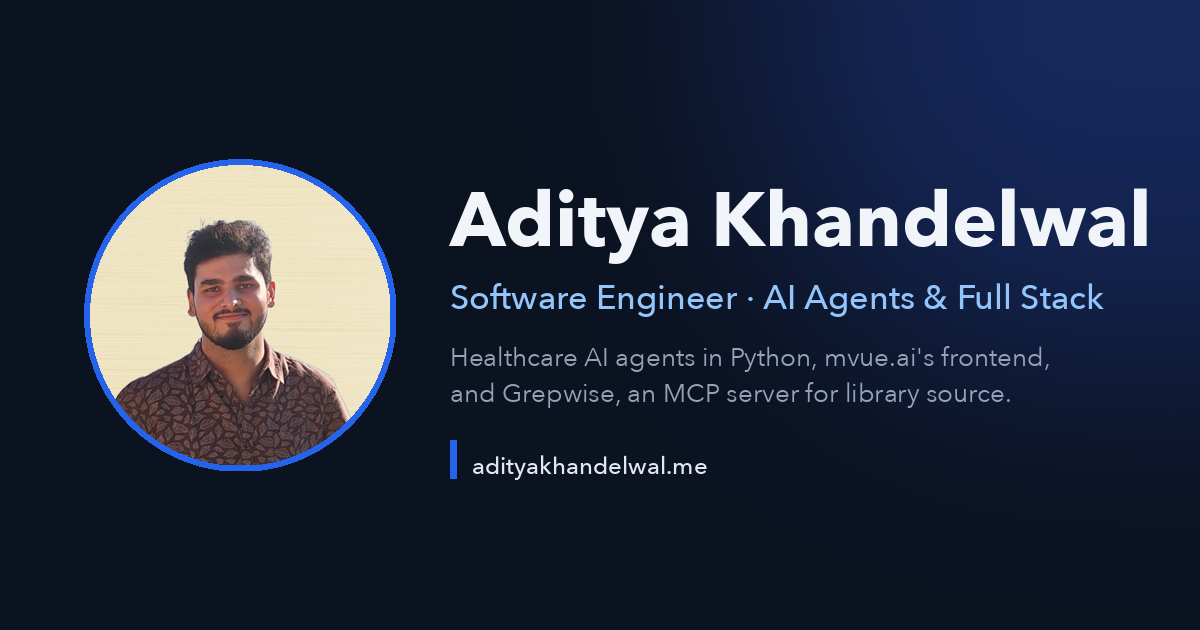
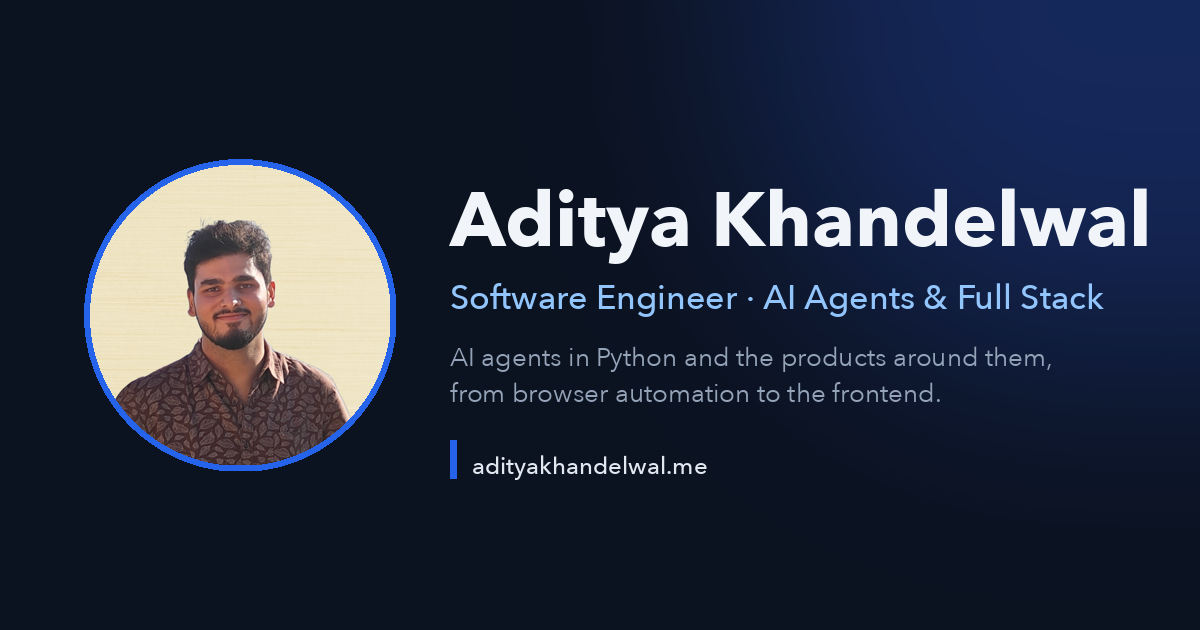
Portfolio: AI agents framing, no client counts, phone-sized type, link preview

Changed region(s): [[0.37, 0.5429, 0.8633, 0.6635]]

diff --git a/src/config/index.ts b/src/config/index.ts
@@ -4,7 +4,7 @@ export const SITE_CONFIG: SiteConfig = {
   title: "Aditya Khandelwal - Software Engineer",
   author: "Aditya Khandelwal",
   description:
-    "Software engineer at Calfus building healthcare AI agents in Python and leading the frontend of mvue.ai, an agentic AI platform. Author of Grepwise, an MCP server that gives coding assistants the real source of a project's libraries.",
+    "Software engineer at Calfus building AI agents in Python, currently for mvue.ai, an agentic AI platform for healthcare, whose frontend I built and lead. Author of Grepwise, an MCP server that gives coding assistants the real source of a project's libraries.",
   lang: "en",
   siteLogo: "/aditya-small.png",
   navLinks: [
@@ -26,7 +26,7 @@ export const SITE_CONTENT: SiteContent = {
     specialty: "Software Engineer · AI Agents & Full Stack",
     location: "Pune, MH",
     summary:
-      "SDE 2 at Calfus, promoted twice since my 2023 internship. I built the frontend of mvue.ai, an agentic AI platform for healthcare revenue cycle management (RCM), and now build its healthcare AI agents in Python while leading its frontend architecture. I work directly with clients, from discovery calls and demos to onboarding.",
+      "SDE 2 at Calfus, promoted twice since my 2023 internship. I build AI agents in Python, currently for mvue.ai, an agentic AI platform for healthcare revenue cycle management (RCM), whose frontend I built from scratch and lead. I work directly with clients, from discovery calls and demos to onboarding.",
     email: "khandelwal.aditya840@gmail.com",
     linkedin: "https://www.linkedin.com/in/khandelwaladitya-/",
     github: "https://github.com/adityak840",
@@ -50,7 +50,7 @@ export const SITE_CONTENT: SiteContent = {
         "Client Onboarding",
       ],
       summary: [
-        "Built a general-purpose AI browser automation service (Python, FastAPI, Playwright) that turns any authenticated portal into schema-validated JSON for agents to use. New portals need no code changes, and 5 are live.",
+        "Built a general-purpose AI browser automation service (Python, FastAPI, Playwright) that turns any authenticated portal into schema-validated JSON for agents to use. New portals need no code changes.",
         "Recipes for each portal are generated with OpenAI structured outputs and cached, so repeat runs need far fewer LLM calls and stay consistent. Over 95% of runs extract cleanly, and most failures are fixed by updating the recipe.",
         "Handles TOTP, SMS and email OTP logins. Runs on Temporal and PostgreSQL with a Redis cache, deployed with Docker.",
         "Used this service to build an insurance eligibility agent, replacing staff's manual portal-by-portal checks.",
@@ -80,7 +80,7 @@ export const SITE_CONTENT: SiteContent = {
           label:
             "mvue.ai: agentic AI platform for healthcare RCM (founding frontend engineer)",
           bullets: [
-            "Joined as the only frontend engineer on mvue.ai and built the production frontend from scratch with Next.js (App Router) and TypeScript. It now serves 5 enterprise clients.",
+            "Joined as the only frontend engineer on mvue.ai and built the production frontend from scratch with Next.js (App Router) and TypeScript. It now runs in production for enterprise clients.",
             "Shipped the core product areas: AI agent audit trails, denial management, appeals, eligibility and analytics.",
             "Built multi-tenant Keycloak login with a realm per tenant, Vault-stored credentials, JWT refresh and federated logout. Designed the RBAC schema in PostgreSQL, covering roles, permissions and features.",
             "Streamed AI agent output over Server-Sent Events using a custom ReadableStream parser that feeds Redux.",
@@ -203,7 +203,7 @@ export const SITE_CONTENT: SiteContent = {
     },
   ],
   about: {
-    description: `I'm Aditya, an SDE 2 at Calfus. I joined mvue.ai as its only frontend engineer and built the product's frontend from scratch. It now serves 5 enterprise clients in healthcare revenue cycle management.
+    description: `I'm Aditya, an SDE 2 at Calfus. I joined mvue.ai as its only frontend engineer and built the product's frontend from scratch. It now runs in production for enterprise clients in healthcare revenue cycle management.
 
 Today I build the AI side too: a Python service that lets agents log into authenticated portals and pull out structured data, the insurance eligibility agent built on it, and the client conversations that decide what gets built next. Outside work I build tools I use every day, like Grepwise, which gives coding assistants the real source code of the libraries a project depends on.`,
     image: "/aditya-big.png",
